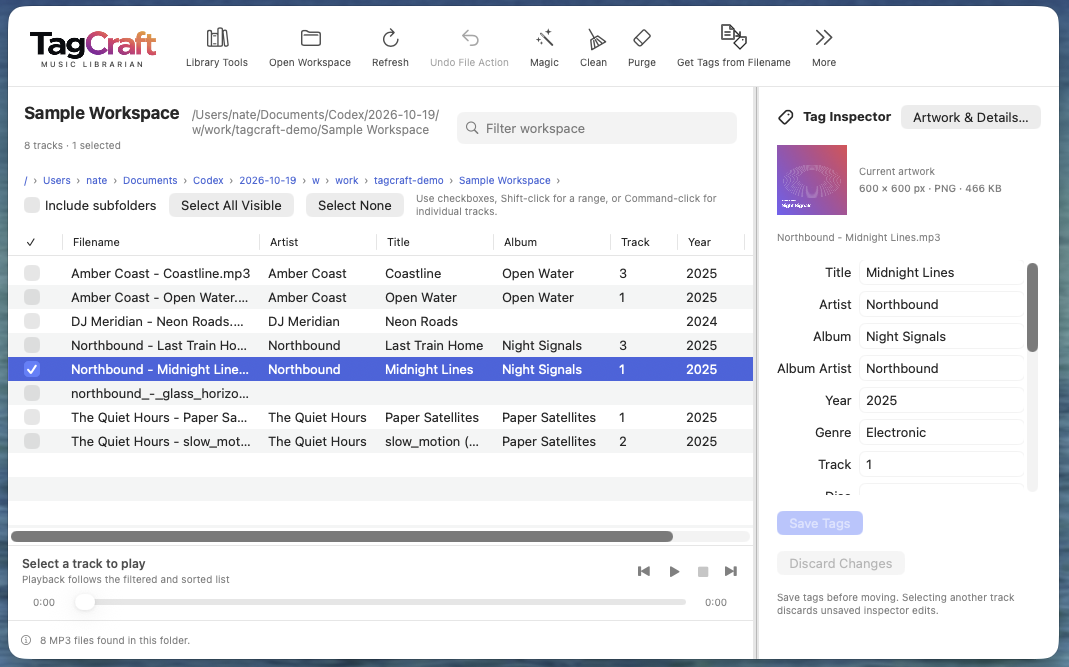
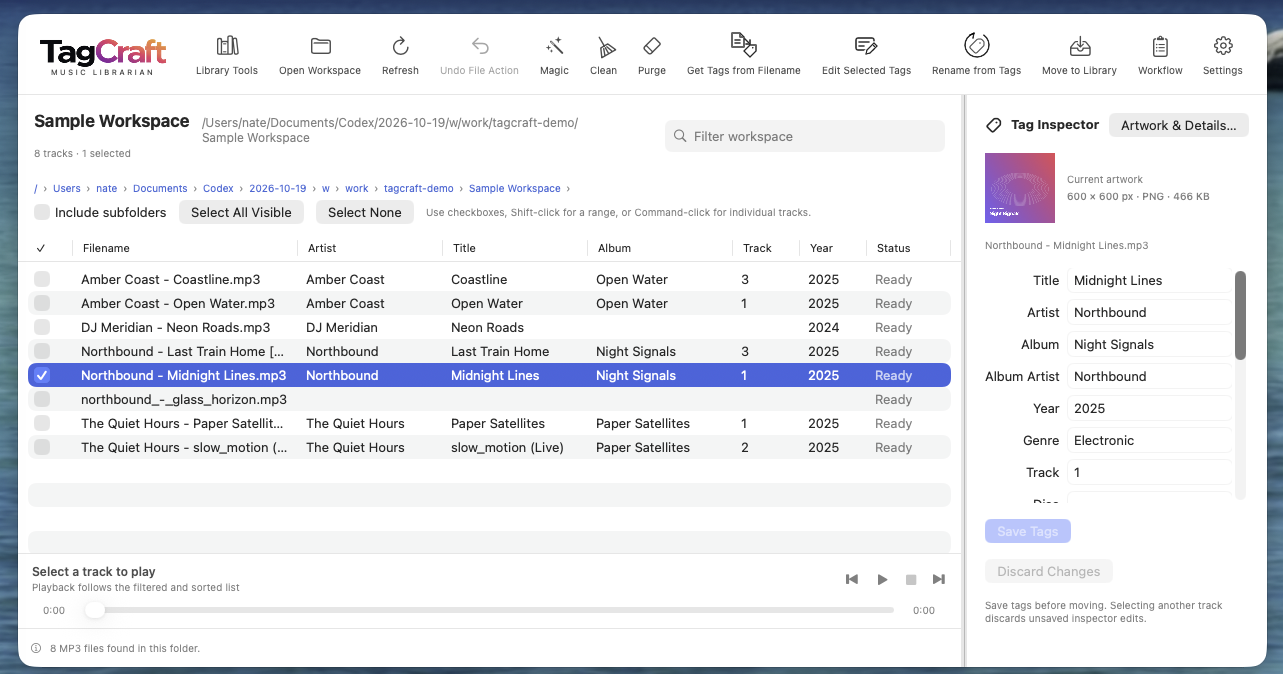
Show wider workspace and Library Health in README

diff --git a/README.md b/README.md
@@ -92,7 +92,7 @@ The script builds a release executable into `outputs/TagCraft Music Librarian.ap
 
 ## Screenshots
 
-Actual app captures using fictional artists and original sample artwork. Workspace: **0.7.0 Alpha, build 1**, October 22, 2026. Library Statistics: **0.5.2 Alpha, build 52**, October 19, 2026.
+Actual app captures using fictional artists and original sample artwork. Workspace: **0.7.0 Alpha, build 1**, October 22, 2026. Library Statistics and Health: **0.5.2 Alpha, build 52**, October 19, 2026.
 
 ### Workspace
 
@@ -105,6 +105,12 @@ The workspace combines a sortable file list, tag inspector, embedded artwork, an
 Statistics cover the separate primary library, with cached records and artist, genre, year and Health views.
 
 ![Library Statistics showing totals and artist groups for the fictional demo collection](docs/images/library-statistics.jpg)
+
+### Library Health
+
+Select a Health row to review only that issue type.
+
+![Library Health listing missing album, artwork and track values, naming variations and a suspicious year](docs/images/library-health.jpg)
 
 [More screenshots: Magic, Health corrections, library structure and move previews](screenshots.md)
 

diff --git a/screenshots.md b/screenshots.md
@@ -4,19 +4,13 @@
 
 Actual captures of **0.5.2 Alpha, build 52**, using fictional artists and original sample artwork. The sample workspace contains eight files; the separate demo library contains 24 tracks. No changes were applied from preview or correction dialogs. The library-structure example is an unsaved draft, discarded after capture.
 
-The [README](README.md#screenshots) shows the workspace and primary-library statistics. Additional views are below.
+The [README](README.md#screenshots) shows the workspace, primary-library statistics and Library Health. Additional views are below.
 
 ## Magic — review suggestions
 
 Ambiguous interpretations remain excluded until reviewed. Suggested tags and filename changes are shown together.
 
 ![Magic review showing proposed artist and title values, filename cleanup and uncertainty warnings](docs/images/magic-review.jpg)
-
-## Library Health
-
-Select a Health row to review only that issue type.
-
-![Library Health listing missing album, artwork and track values, naming variations and a suspicious year](docs/images/library-health.jpg)
 
 ## Health corrections
 

diff --git a/docs/CHANGE-QUEUE.md b/docs/CHANGE-QUEUE.md
@@ -1,9 +1,11 @@
 # Change queue
 
-No unimplemented changes are queued.
+## Authorized and in progress
+
+- Publish latest wider workspace image and move Library Health to the README.
+- Resolve high priorities: protect unsaved edits on selection changes; expose hidden selection scope; add menu commands and standard file Undo.
+- Resolve medium priorities: toolbar hierarchy; readable labels and adaptable dialogs/inspector; keyboard and accessible names for custom controls.
 
 ## Completed October 22, 2026
 
 - AGPL-3.0 version 3 only and License & Usage Notice; offline documents, acknowledgment migration and tests.
-- Updated workspace screenshot supplied by Nate; other captures retain their original versions.
-- README review declined; affected screenshot refresh approved for the authorized GitHub push.

diff --git a/docs/SCREENSHOTS.md b/docs/SCREENSHOTS.md
@@ -1,6 +1,6 @@
 # Screenshot capture record
 
-Latest workspace refresh: October 22, 2026 (America/Chicago), 0.7.0 Alpha Build 1. Nate supplied workspace.png from the prepared sample workspace. The narrow window places some toolbar actions under More and hides the top-right version label. No file changes or playback were applied.
+Latest workspace refresh: October 22, 2026 (America/Chicago), 0.7.0 Alpha Build 1. Nate supplied workspace.png from the prepared sample workspace. The replacement wider capture shows all toolbar actions; the version label remains outside this layout. No file changes or playback were applied.
 
 Other screenshots last captured: October 19, 2026 (America/Chicago).
 App shown: 0.5.2 Alpha, Build 52.
